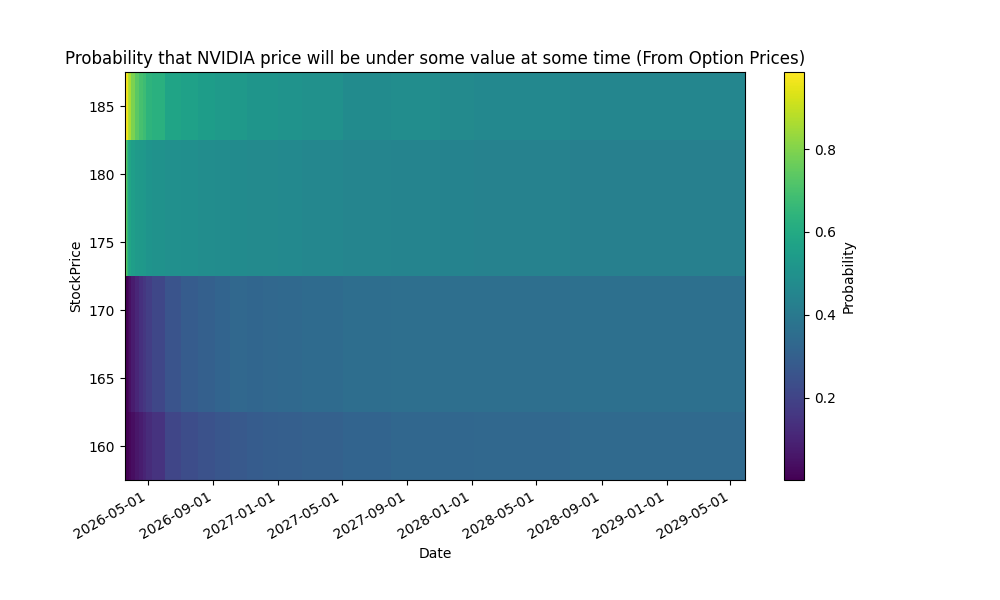
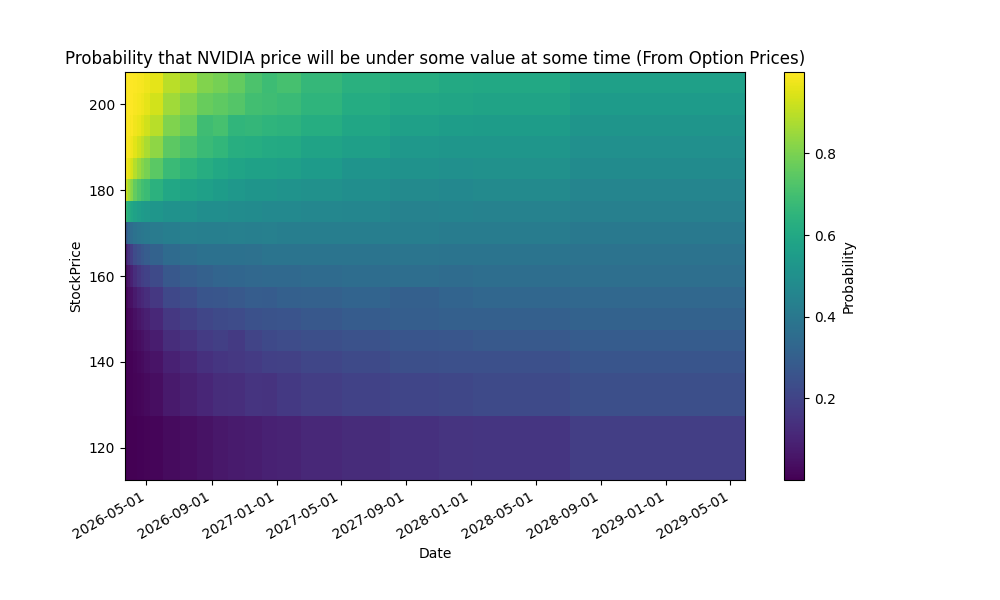
updated logs

diff --git a/README.md b/README.md
@@ -26,13 +26,13 @@ If you want to understand how this animation was created, then you can check out
 
 ## Daily Updated Bullet Points for Sentiment Analysis for NVIDIA stock
 <!-- BulletPointStart -->
-- New Street analyst Pierre Ferragu added Nvidia (NVDA) to the firm’s best idea list for 2026, arguing NVDA could become a $1 trillion run-rate business by end-2027 thanks to Blackwell and Rubin revenue, with potential for a strong beat and efficient buybacks. 
-- Raymond James raised its NVDA price target to $323, maintaining a Strong Buy, citing management’s guidance for about $1 trillion in cumulative GPU sales by 2027 and potential AI data-center revenue around $1.3 trillion by the same year (inclusive of Vera Rubin Ultra and Groq LPX). 
-- TipRanks highlights NVDA as a top-rated stock, with 26 analysts rating it over the past 72 hours, a Strong Buy consensus, and an average target of about $275.45 implying roughly a 55% upside. 
-- SpaceX and Tesla continue to order Nvidia AI chips at scale, reinforcing Nvidia’s status as the top AI chip maker with a dominant market share, and analysts’ consensus remains Strong Buy with targets around the mid-$270s and ~54% upside. 
-- Across TipRanks’ stock-research view, NVDA sits among the top AI tech stocks with a Strong Buy consensus, reinforcing broad market optimism and multi-quarter upside potential. 
+- Analysts remain broadly bullish on NVDA with price targets in the $275–$287 range and a strong-buy consensus (about 41 Buys, 1 Hold), implying roughly 56%–66% upside from current levels. 
+- GTC 2026 updates highlighted by analysts include the Groq LPU, expected to represent up to 25% of compute in high-end inference workloads as early as Q3 2026, signaling meaningful new competition-driven demand dynamics. 
+- Ongoing momentum in demand for Nvidia’s AI GPUs and a solid data-center backlog underpin a positive growth trajectory, even as the stock’s near-term reaction at events has been lukewarm. 
+- Nvidia’s revenue runway is highlighted by projections of about $1 trillion in revenue from Blackwell, Blackwell Ultra, and Rubin through 2027 (excluding Rubin Ultra), underscoring a multi-product, long-term growth path. 
+- Valuation and earnings potential suggest a wide upside: base case 14%–17% upside to consensus data-center estimates through FY28, bull case over 25% with additional unbooked revenue; NVDA trades around 13x bull-case EPS, supporting a strong bullish case. 
 
-
+Market optimism rating for NVDA: 
 <!-- BulletPointEnd -->
 
 These Bullet Points get updated after every trading day. They are based on news articles from [News Articles about Nvidia](https://markets.businessinsider.com/news/nvda-stock). They get summarized by ChatGPT into the bullet points above and on top of that ChatGPT gives an optimism ranking from 1-10 for the Nvidia stock based on the articles, which is displayed above.